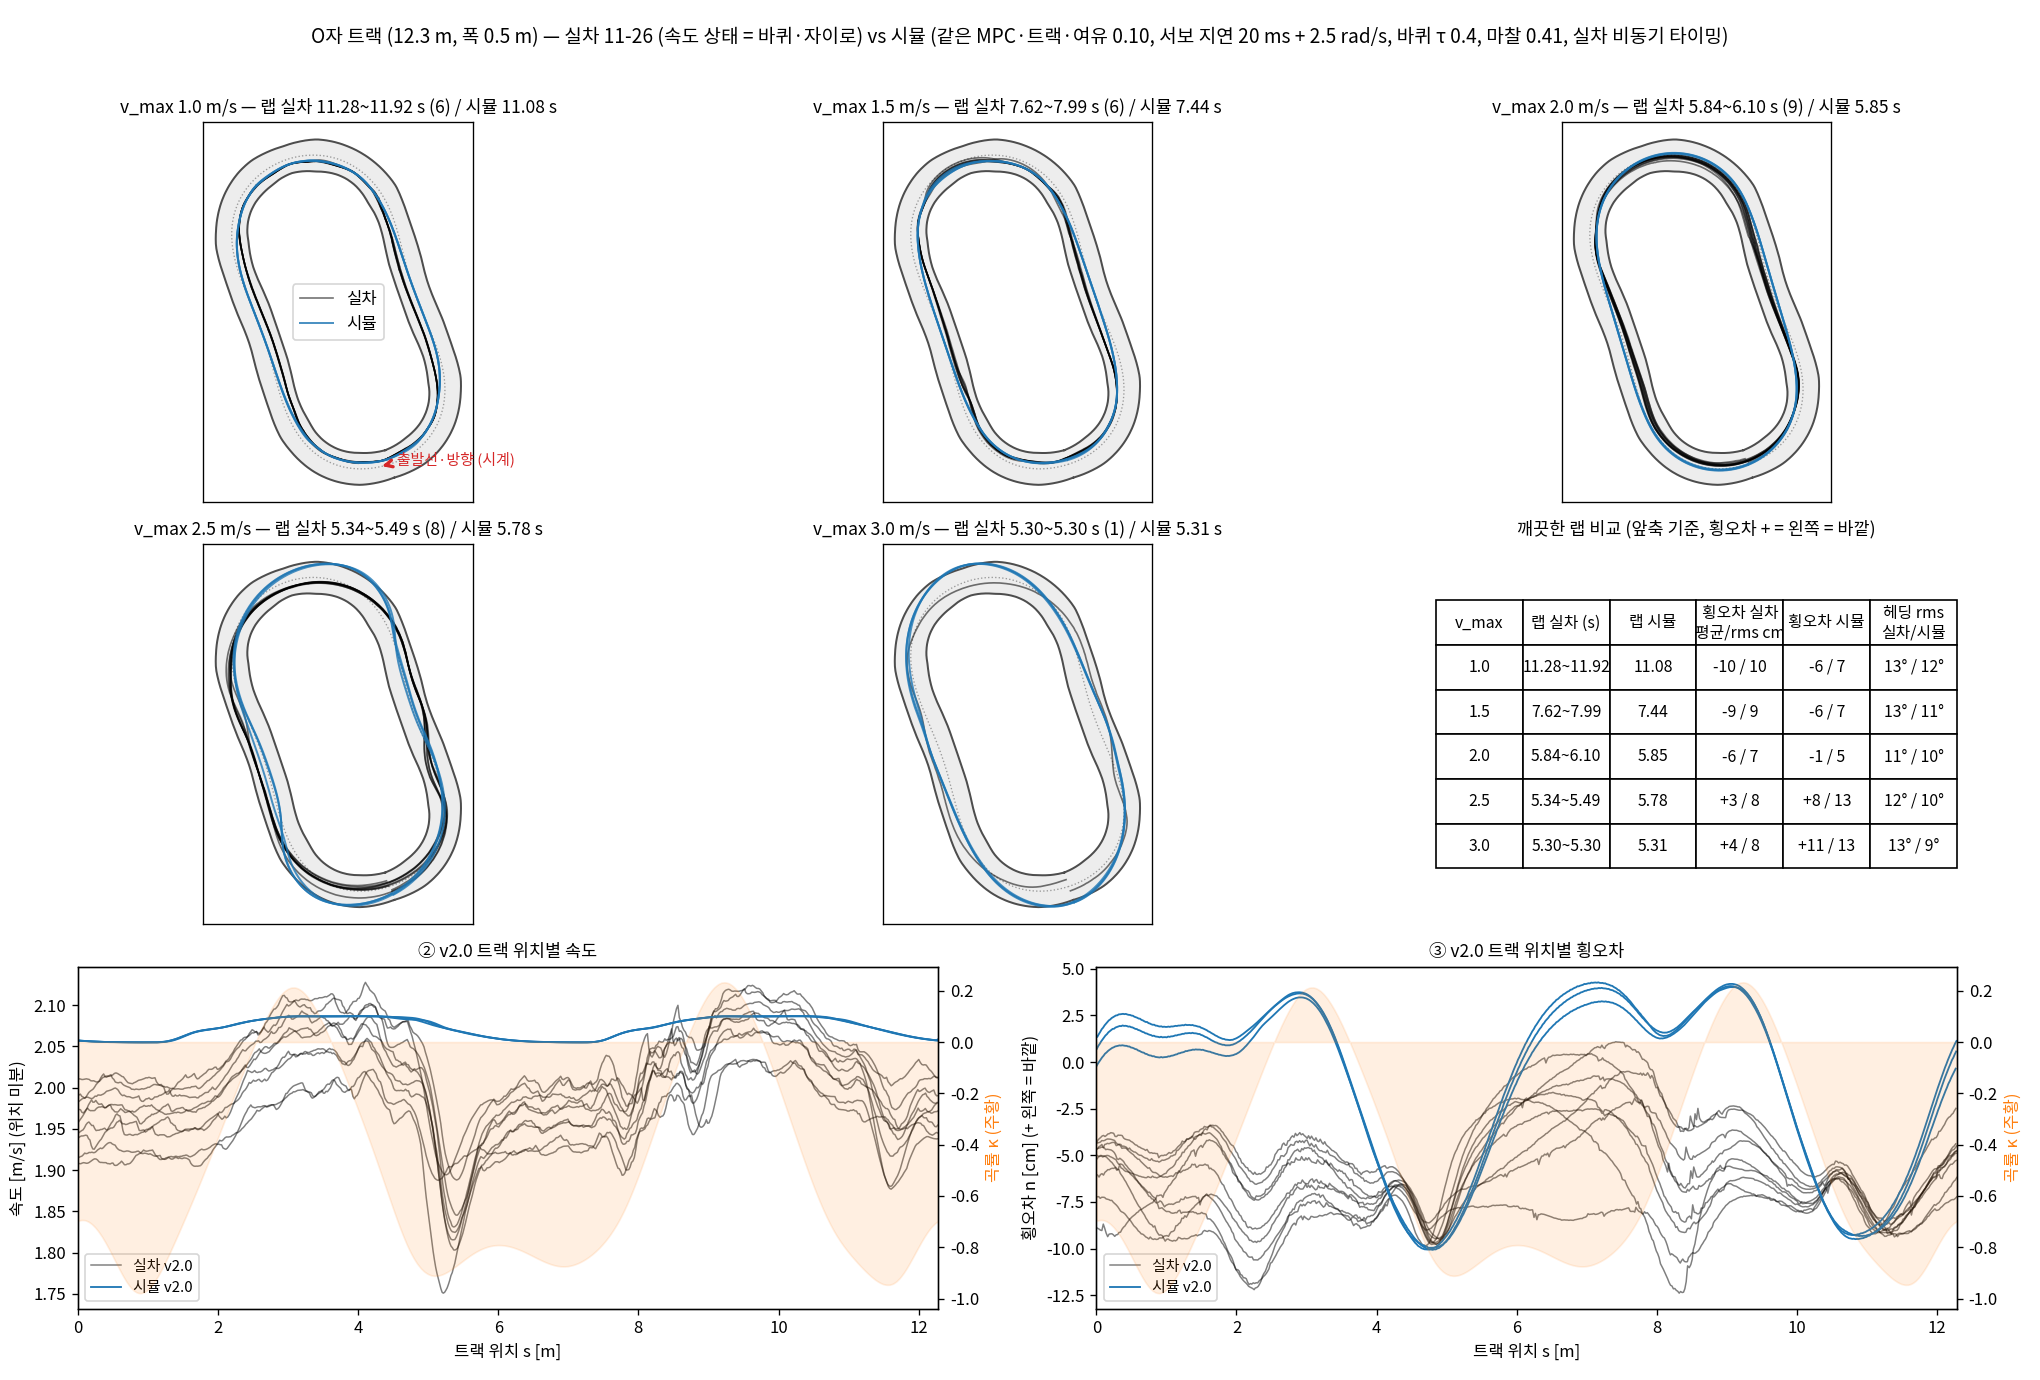
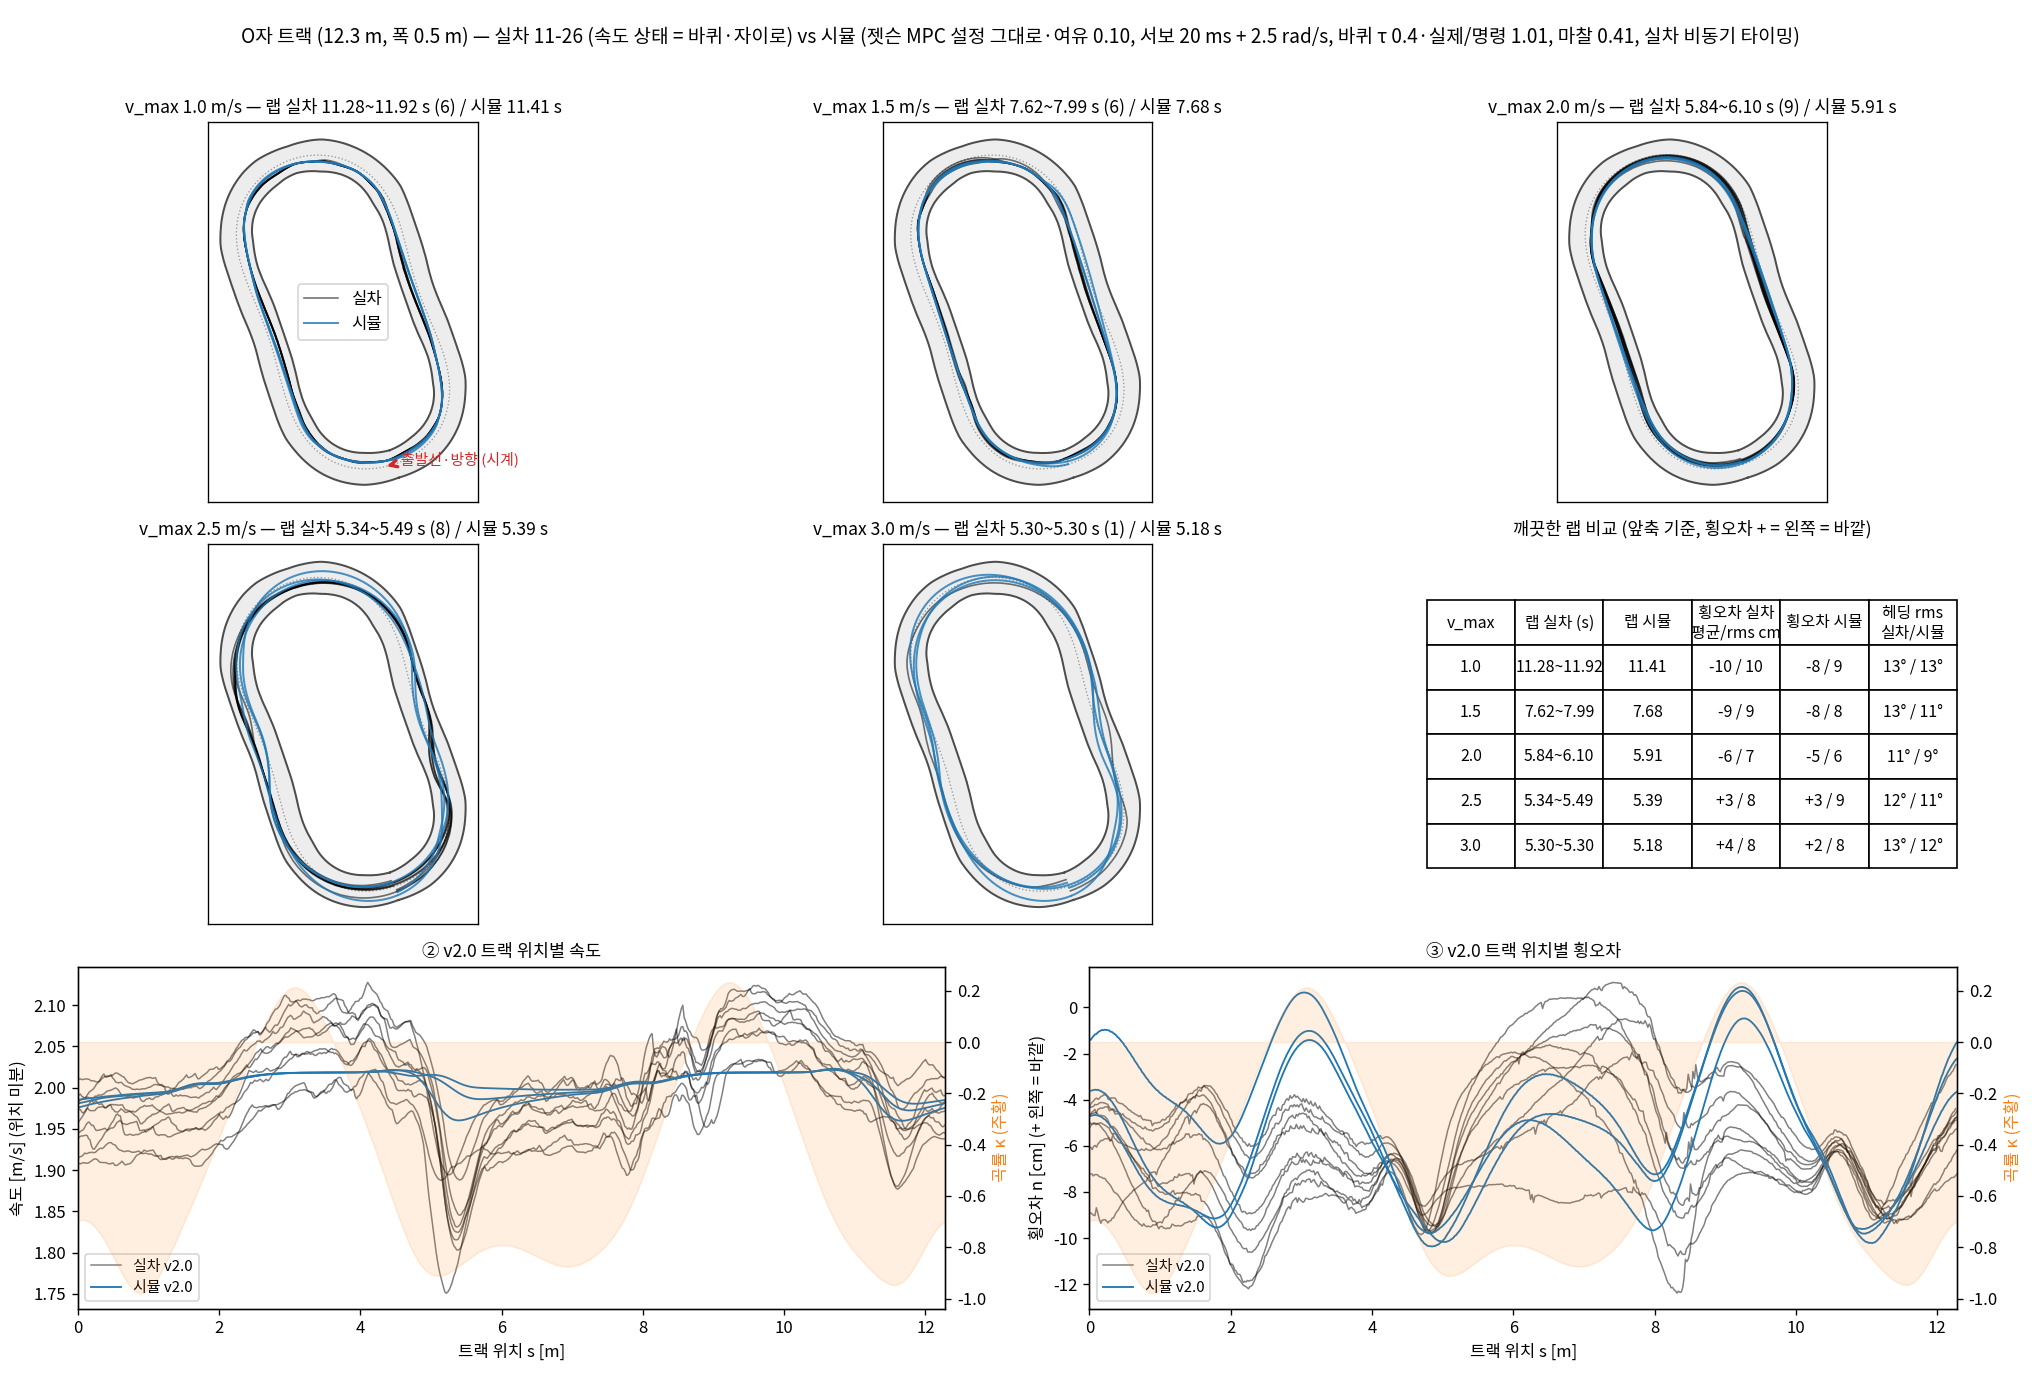
O자 실차 vs 시뮬: 시뮬 MPC 를 젯슨 설정 그대로 (q_n·q_mu 논문 값, 마찰 0.41) + 바퀴 실제/명령 1.01 → 랩·횡오차·헤딩 일치
- main.py 가 v2 race.yaml (대회장 friction 0.52) 을 섞던 것을 jetson_hmpc_params.yaml 로 덮음
- 그림·움짤·노트 갱신

diff --git a/docs/notes/figs/make_otrack_fig.py b/docs/notes/figs/make_otrack_fig.py
@@ -1,7 +1,7 @@
 # O자 트랙 실차 ↔ 시뮬 궤적 비교 (2026-11-27). 위치는 모두 앞바퀴 축 (실차 11-26 로그 기준점).
 #   실차: 11-26 연구실 mocap, sensor 속도 상태 (바퀴·자이로), 끊김 없는 깨끗한 랩만
 #   시뮬: for v in 1.0 1.5 2.0 2.5 3.0; do main.py --track o_track --laps 4 --set v_max=$v wall_margin=0.10 --car friction=0.41
-#           --config tools/analysis/jetson_hmpc_params.yaml --realtime --estimator gyro --vy zero --log SIM/sensor_$v.csv; done
+#           --config tools/analysis/jetson_hmpc_params.yaml --lowlevel speed_scale=1.01 --realtime --estimator gyro --vy zero --log SIM/sensor_$v.csv; done
 #   python3 docs/notes/figs/make_otrack_fig.py RUNS SIM docs/notes/figs/otrack_real_vs_sim.png docs/notes/figs/otrack_v2.0.gif
 import sys, numpy as np, pandas as pd, matplotlib
 matplotlib.use('Agg'); import matplotlib.pyplot as plt
@@ -113,7 +113,7 @@ for col, (key, lab, sc) in enumerate((('v', '속도 [m/s] (위치 미분)', 1), 
     ax2 = ax.twinx(); ax2.fill_between(sg, 0, TR.kappa_at(sg), color='tab:orange', alpha=0.12); ax2.set_ylabel('곡률 κ (주황)', color='tab:orange')
     ax.set_xlabel('트랙 위치 s [m]'); ax.set_ylabel(lab); ax.set_xlim(0, LEN); ax.legend(loc='lower left', fontsize=9)
     ax.set_title(['② v2.0 트랙 위치별 속도', '③ v2.0 트랙 위치별 횡오차'][col], fontsize=10.5)
-fig.suptitle('O자 트랙 (12.3 m, 폭 0.5 m) — 실차 11-26 (속도 상태 = 바퀴·자이로) vs 시뮬 (같은 MPC·트랙·여유 0.10, 서보 지연 20 ms + 2.5 rad/s, 바퀴 τ 0.4, 마찰 0.41, 실차 비동기 타이밍)', fontsize=11.5)
+fig.suptitle('O자 트랙 (12.3 m, 폭 0.5 m) — 실차 11-26 (속도 상태 = 바퀴·자이로) vs 시뮬 (젯슨 MPC 설정 그대로·여유 0.10, 서보 20 ms + 2.5 rad/s, 바퀴 τ 0.4·실제/명령 1.01, 마찰 0.41, 실차 비동기 타이밍)', fontsize=11.5)
 fig.tight_layout(rect=(0, 0, 1, 0.97)); fig.savefig(PNG, dpi=120)
 for r in rows: print(r)
 

diff --git a/docs/notes/2026-11-27_O자_실차vs시뮬.md b/docs/notes/2026-11-27_O자_실차vs시뮬.md
@@ -4,13 +4,41 @@
 
 움짤 (v2.0, 같은 출발선 동시 출발): `figs/otrack_v2.0.gif`. 그림 스크립트 `figs/make_otrack_fig.py`.
 
+## 요약
+
+시뮬을 실차와 같은 설정으로 맞추니 v1.0~3.0 모두 랩·횡오차·헤딩이 실차 범위 안에 들어왔다.
+처음 비교 (5164fe6) 와 달라진 것은 세 가지다.
+
+1. **MPC 비용 q_n·q_mu**: v2 mpcc.yaml 은 5.0·1.0 (11-09 부터 센터라인 추종). 젯슨 실차는 논문 값 0.02·0.002 (`hypermpc/offline_ocp.make_cfg`, hmpc.yaml 에 키 없음) → 젯슨 값으로
+2. **MPC 마찰**: `main.py` 가 기본으로 v2 `race.yaml` (대회장 friction 0.52) 을 섞는다 → 시뮬 차 0.41, MPC 만 0.52 였다. 1108_7 폐루프 (11-26 노트) 도 같은 조건이었다 → 0.41
+3. **바퀴 실제/명령**: 시뮬은 명령 × speed_scale 1.044 로 달린다. 실차는 바퀴 속도 (×1.044 환산) 가 명령의 1.00~1.01 이고 직선 mocap 속도도 같다 (새 VESC PID 정상상태 오차가 환산 오차를 상쇄) → `--lowlevel speed_scale=1.01`
+
+1·2 와 타이어 Bx·q_delta 는 `tools/analysis/jetson_hmpc_params.yaml` (`--config`) 로 넣었다. 연구원님 기본 설정 파일은 그대로다.
+
 ## 시뮬 설정
 
-- 트랙 `o_track` (main `lab_map/data/tracks/o_track` 복사, 12.28 m, 폭 0.5, 시계 방향), `wall_margin 0.10`
-- MPC: v2 MpccController + 젯슨 hmpc.yaml 타이어·q_delta (`tools/analysis/jetson_hmpc_params.yaml`)
-- 차: 마찰 0.41, 바퀴 τ 0.4, **서보 지연 20 ms + 각속도 상한 2.5 rad/s** (새 `lowlevel.yaml`)
-- 속도 상태: `--realtime --estimator gyro --vy zero` (실차 sensor 모드와 같음: vx 바퀴, r 자이로, 뒤축 vy 0)
+- 트랙 `o_track` (12.28 m, 폭 0.5, 시계 방향), `wall_margin 0.10`
+- MPC: v2 MpccController + `--config tools/analysis/jetson_hmpc_params.yaml`
+- 차: 마찰 0.41, 바퀴 τ 0.4, 실제/명령 1.01, **서보 지연 20 ms + 각속도 상한 2.5 rad/s** (`lowlevel.yaml`)
+- 속도 상태: `--realtime --estimator gyro --vy zero` (실차 sensor 와 같음)
 - 실차: 11-26 연구실 mocap sensor 주행, 멈칫 없는 랩만. 위치는 둘 다 앞축
+- 11-26 실차 주행 때 대회용 설정은 모두 꺼져 있었다 (조향 맵 ×1.1~2.2 주석, wall_margin_inner/outer −1, steer_plan_frac 1.0, wall_heading 0, friction 0.41)
+
+## 결과
+
+| v_max | 랩 실차 | 랩 시뮬 | 횡오차 실차 평균/rms | 시뮬 | 헤딩 rms 실차/시뮬 | 조향 한계 비율 실차/시뮬 |
+|---|---|---|---|---|---|---|
+| 1.0 | 11.28~11.92 | 11.40~11.42 | −10 / 10 cm | −8 / 9 | 13° / 13° | 17~21 % / 16 % |
+| 1.5 | 7.62~7.99 | 7.66~7.70 | −9 / 9 | −8 / 8 | 13° / 12° | 27~29 % / 17 % |
+| 2.0 | 5.84~6.10 | 5.89~5.93 | −6 / 7 | −5 / 6 | 11° / 9° | 44~45 % / 36 % |
+| 2.5 | 5.34~5.49 | 5.34~5.50 | +3 / 8 | +3 / 9 | 12° / 11° | 55 % / 55 % |
+| 3.0 | 5.30 (1 랩) | 5.09~5.25 | +4 / 8 | +2 / 8 | 13° / 12° | 63 % / 56 % |
+
+- kf 속도 상태 (v2.0, speed_scale 1.044 로 돌린 것): 시뮬도 실차처럼 sensor 보다 느리고 (5.92~6.14 vs 5.81 s) 횡오차 rms 가 크며 (9.1 vs 4.5 cm), 코너 입구 (s 5~9 m) 에서 속도 명령이 떨어진다 (명령 std 0.25, 실차 0.35)
+- 남은 차이
+  - 실차는 코너 입구 s ≈ 5.2 m 에서 1.75 m/s, s ≈ 11.6 m 에서 1.88 m/s 까지 감속. 시뮬은 1.96 정도
+  - 코너에서 실차 mocap 속도 / 바퀴 속도 = 0.96, 시뮬 0.97~0.99 (종방향 미끄럼)
+  - 젯슨은 곡률·벽을 지난 풀이의 s 로 한 스테이지 늦게 읽는다 (시뮬은 곡률을 상태 s 로)
 
 ## 서보 모델 고르기 (개루프 재생, 1 s 뒤 위치·헤딩)
 
@@ -23,21 +51,3 @@
 | 60 ms + 2.2 | 6.5 cm 6.1° | 6.4 cm 4.5° |
 
 - 거치대 계단 (젯슨) 은 지연 40~60 ms + 2.0~2.5 rad/s. 땅 위 재생은 지연이 20 ms 를 넘으면 나빠진다 → 상한은 거치대, 지연은 20 ms
-
-## 결과
-
-| v_max | 랩 실차 | 랩 시뮬 | 횡오차 실차 평균/rms | 시뮬 | 헤딩 rms 실차/시뮬 | 조향 한계 비율 실차/시뮬 |
-|---|---|---|---|---|---|---|
-| 1.0 | 11.28~11.92 | 11.08 | −10 / 10 cm | −6 / 7 | 13° / 12° | 17~21 % / 2 % |
-| 1.5 | 7.62~7.99 | 7.44 | −9 / 9 | −6 / 7 | 13° / 11° | 27~29 % / 8 % |
-| 2.0 | 5.84~6.10 | 5.85 | −6 / 7 | −1 / 5 | 11° / 10° | 44~45 % / 40 % |
-| 2.5 | 5.34~5.49 | 5.78 | +3 / 8 | +8 / 13 | 12° / 10° | 55 % / 63 % |
-| 3.0 | 5.30 (1 랩) | 5.31 | +4 / 8 | +11 / 13 | 13° / 9° | 63 % / 51 % |
-
-- 맞는 것: 궤적 모양, v1.0~2.0·3.0 랩, 헤딩, 횡오차가 저속 안쪽 → 고속 바깥으로 바뀌는 경향
-- 다른 것
-  1. 실차가 트랙 전체 (직선 포함) 에서 5~7 cm 오른쪽 (안쪽) → 좌표 (마커 보정·센터라인) 의심
-  2. 실차는 코너 입구 s ≈ 5.2 m 에서 1.75 m/s 까지 감속 (kf 모드에선 0.8 까지, 매 랩). 시뮬은 거의 일정
-  3. 저속 조향 한계 비율 실차 20 % vs 시뮬 2 %
-  4. v2.5 시뮬이 0.3~0.4 s 느리고 바깥으로 크게 돈다
-- 시뮬 kf ↔ sensor: 시뮬에선 차이가 없다 (v2.0 kf 5.72 s, sensor 5.85 s). 실차의 kf 코너 입구 감속은 시뮬 KF 모델로 재현되지 않는다
